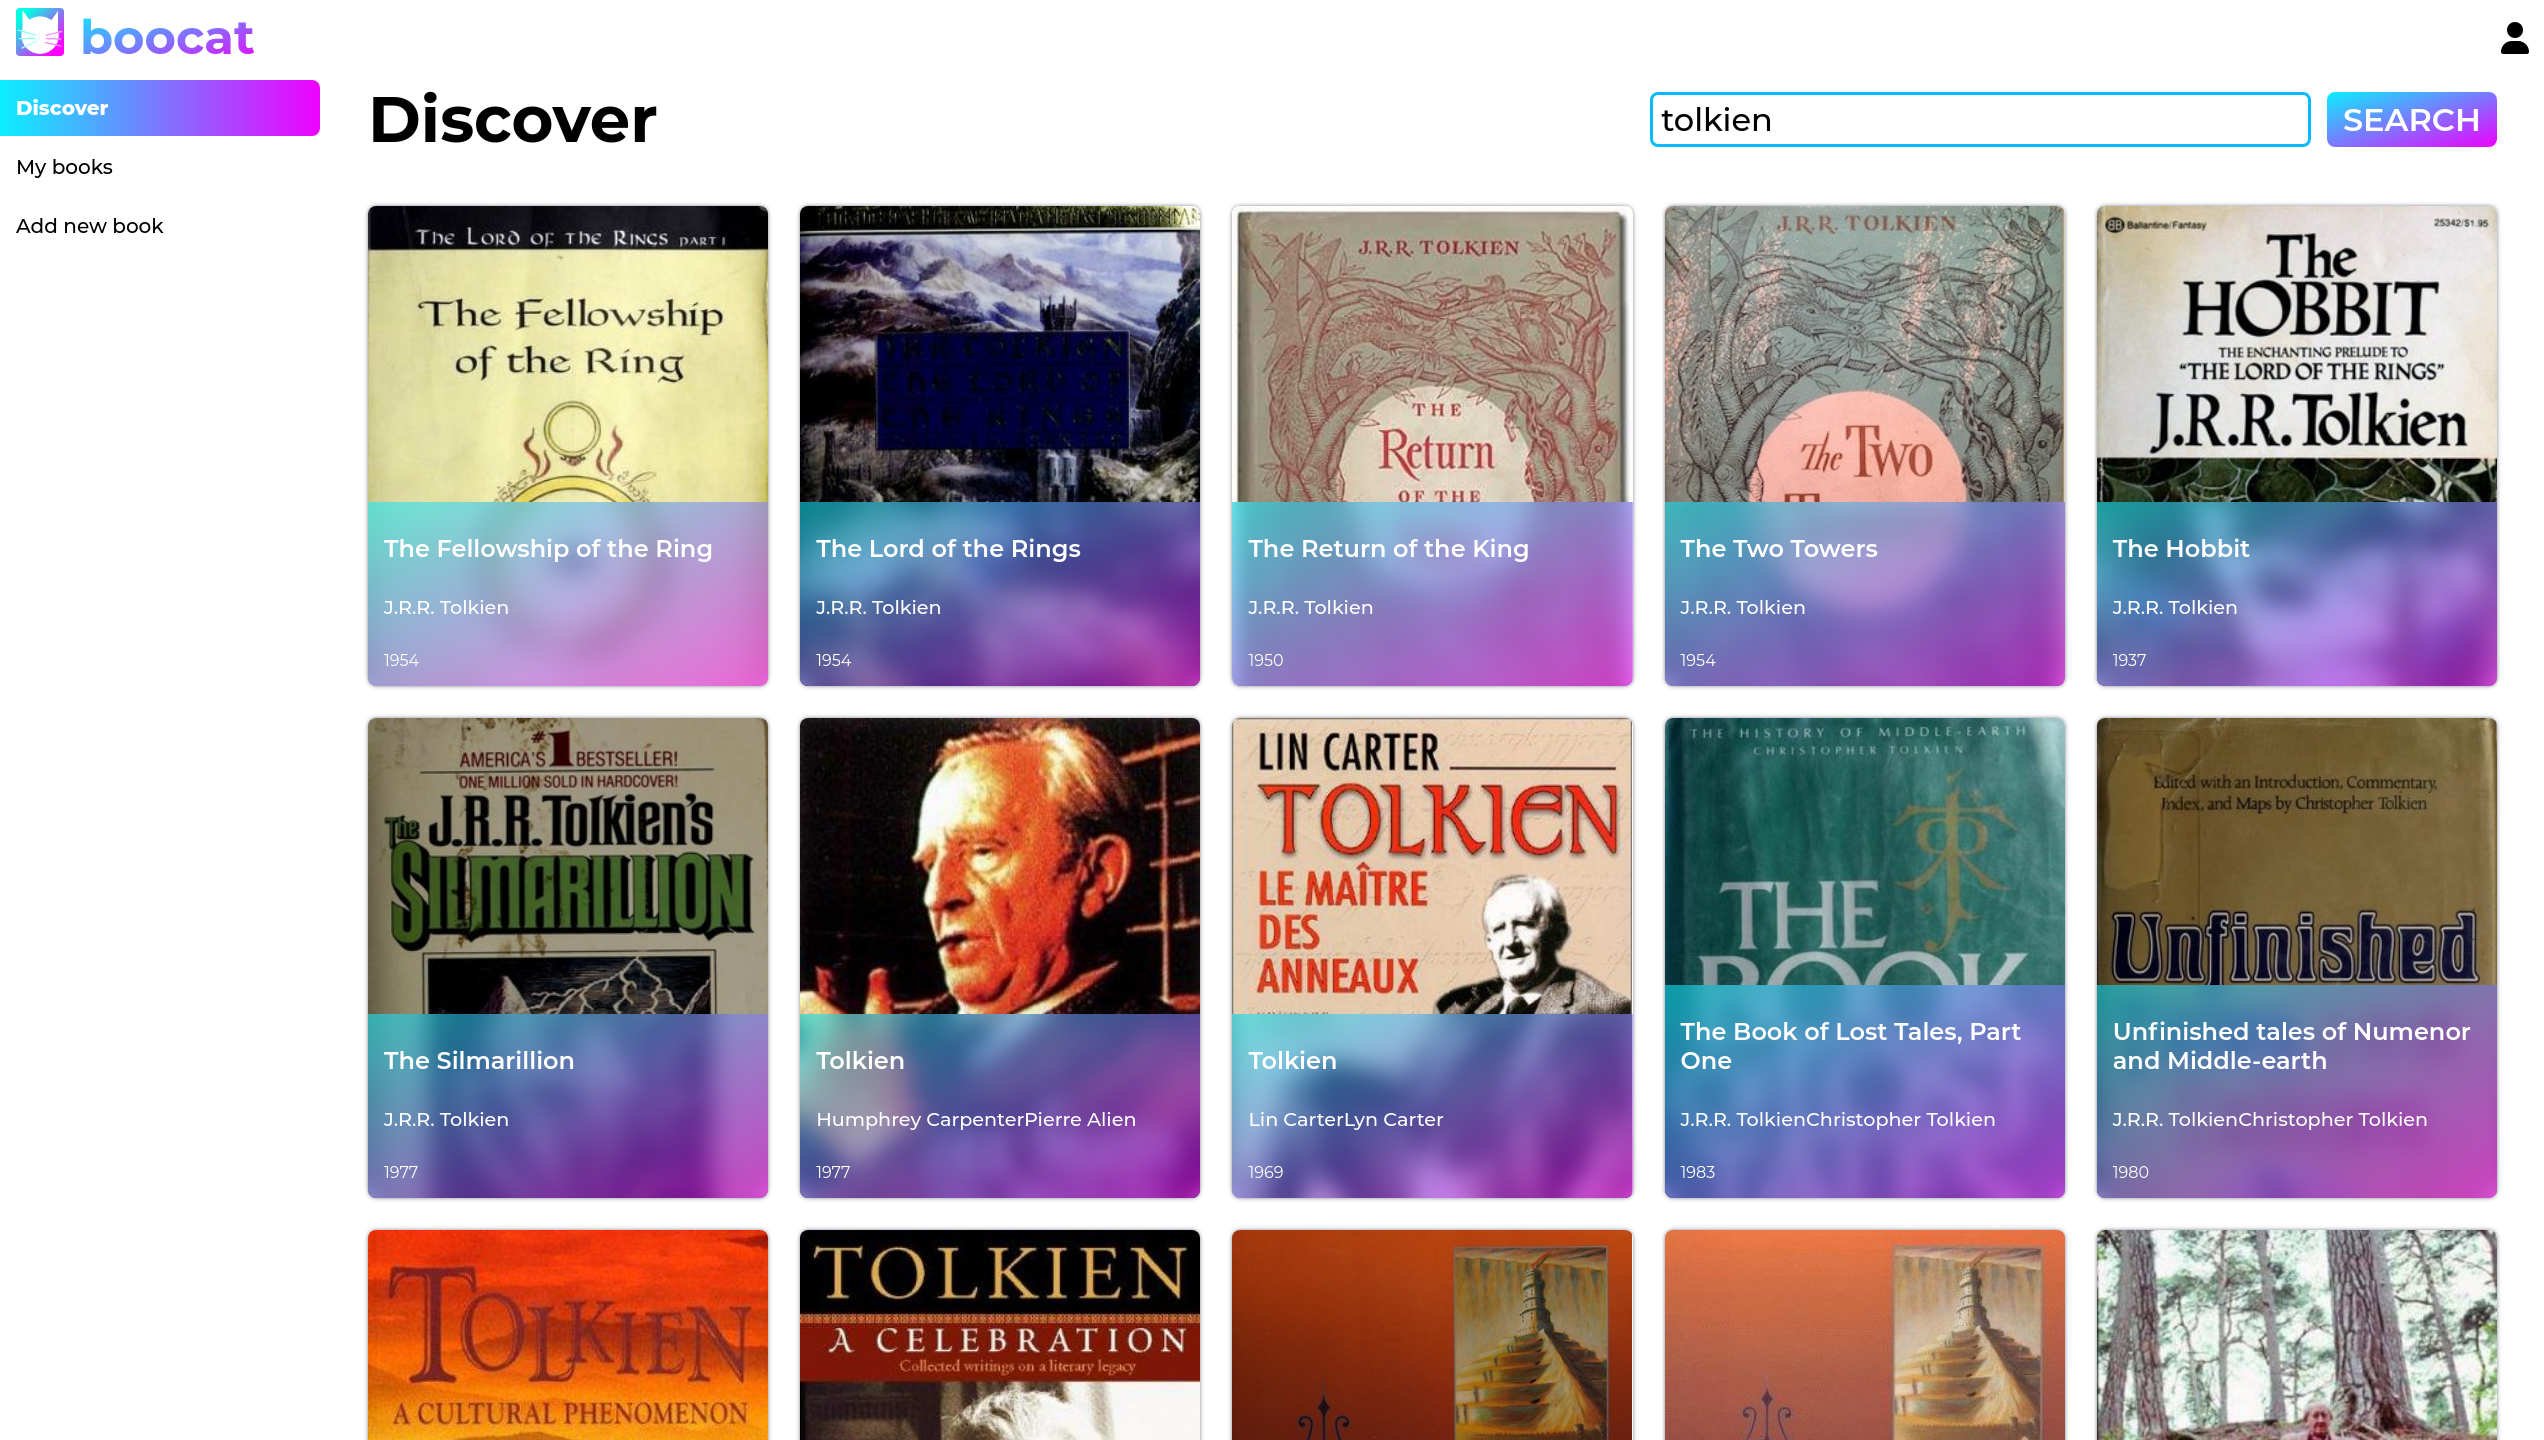
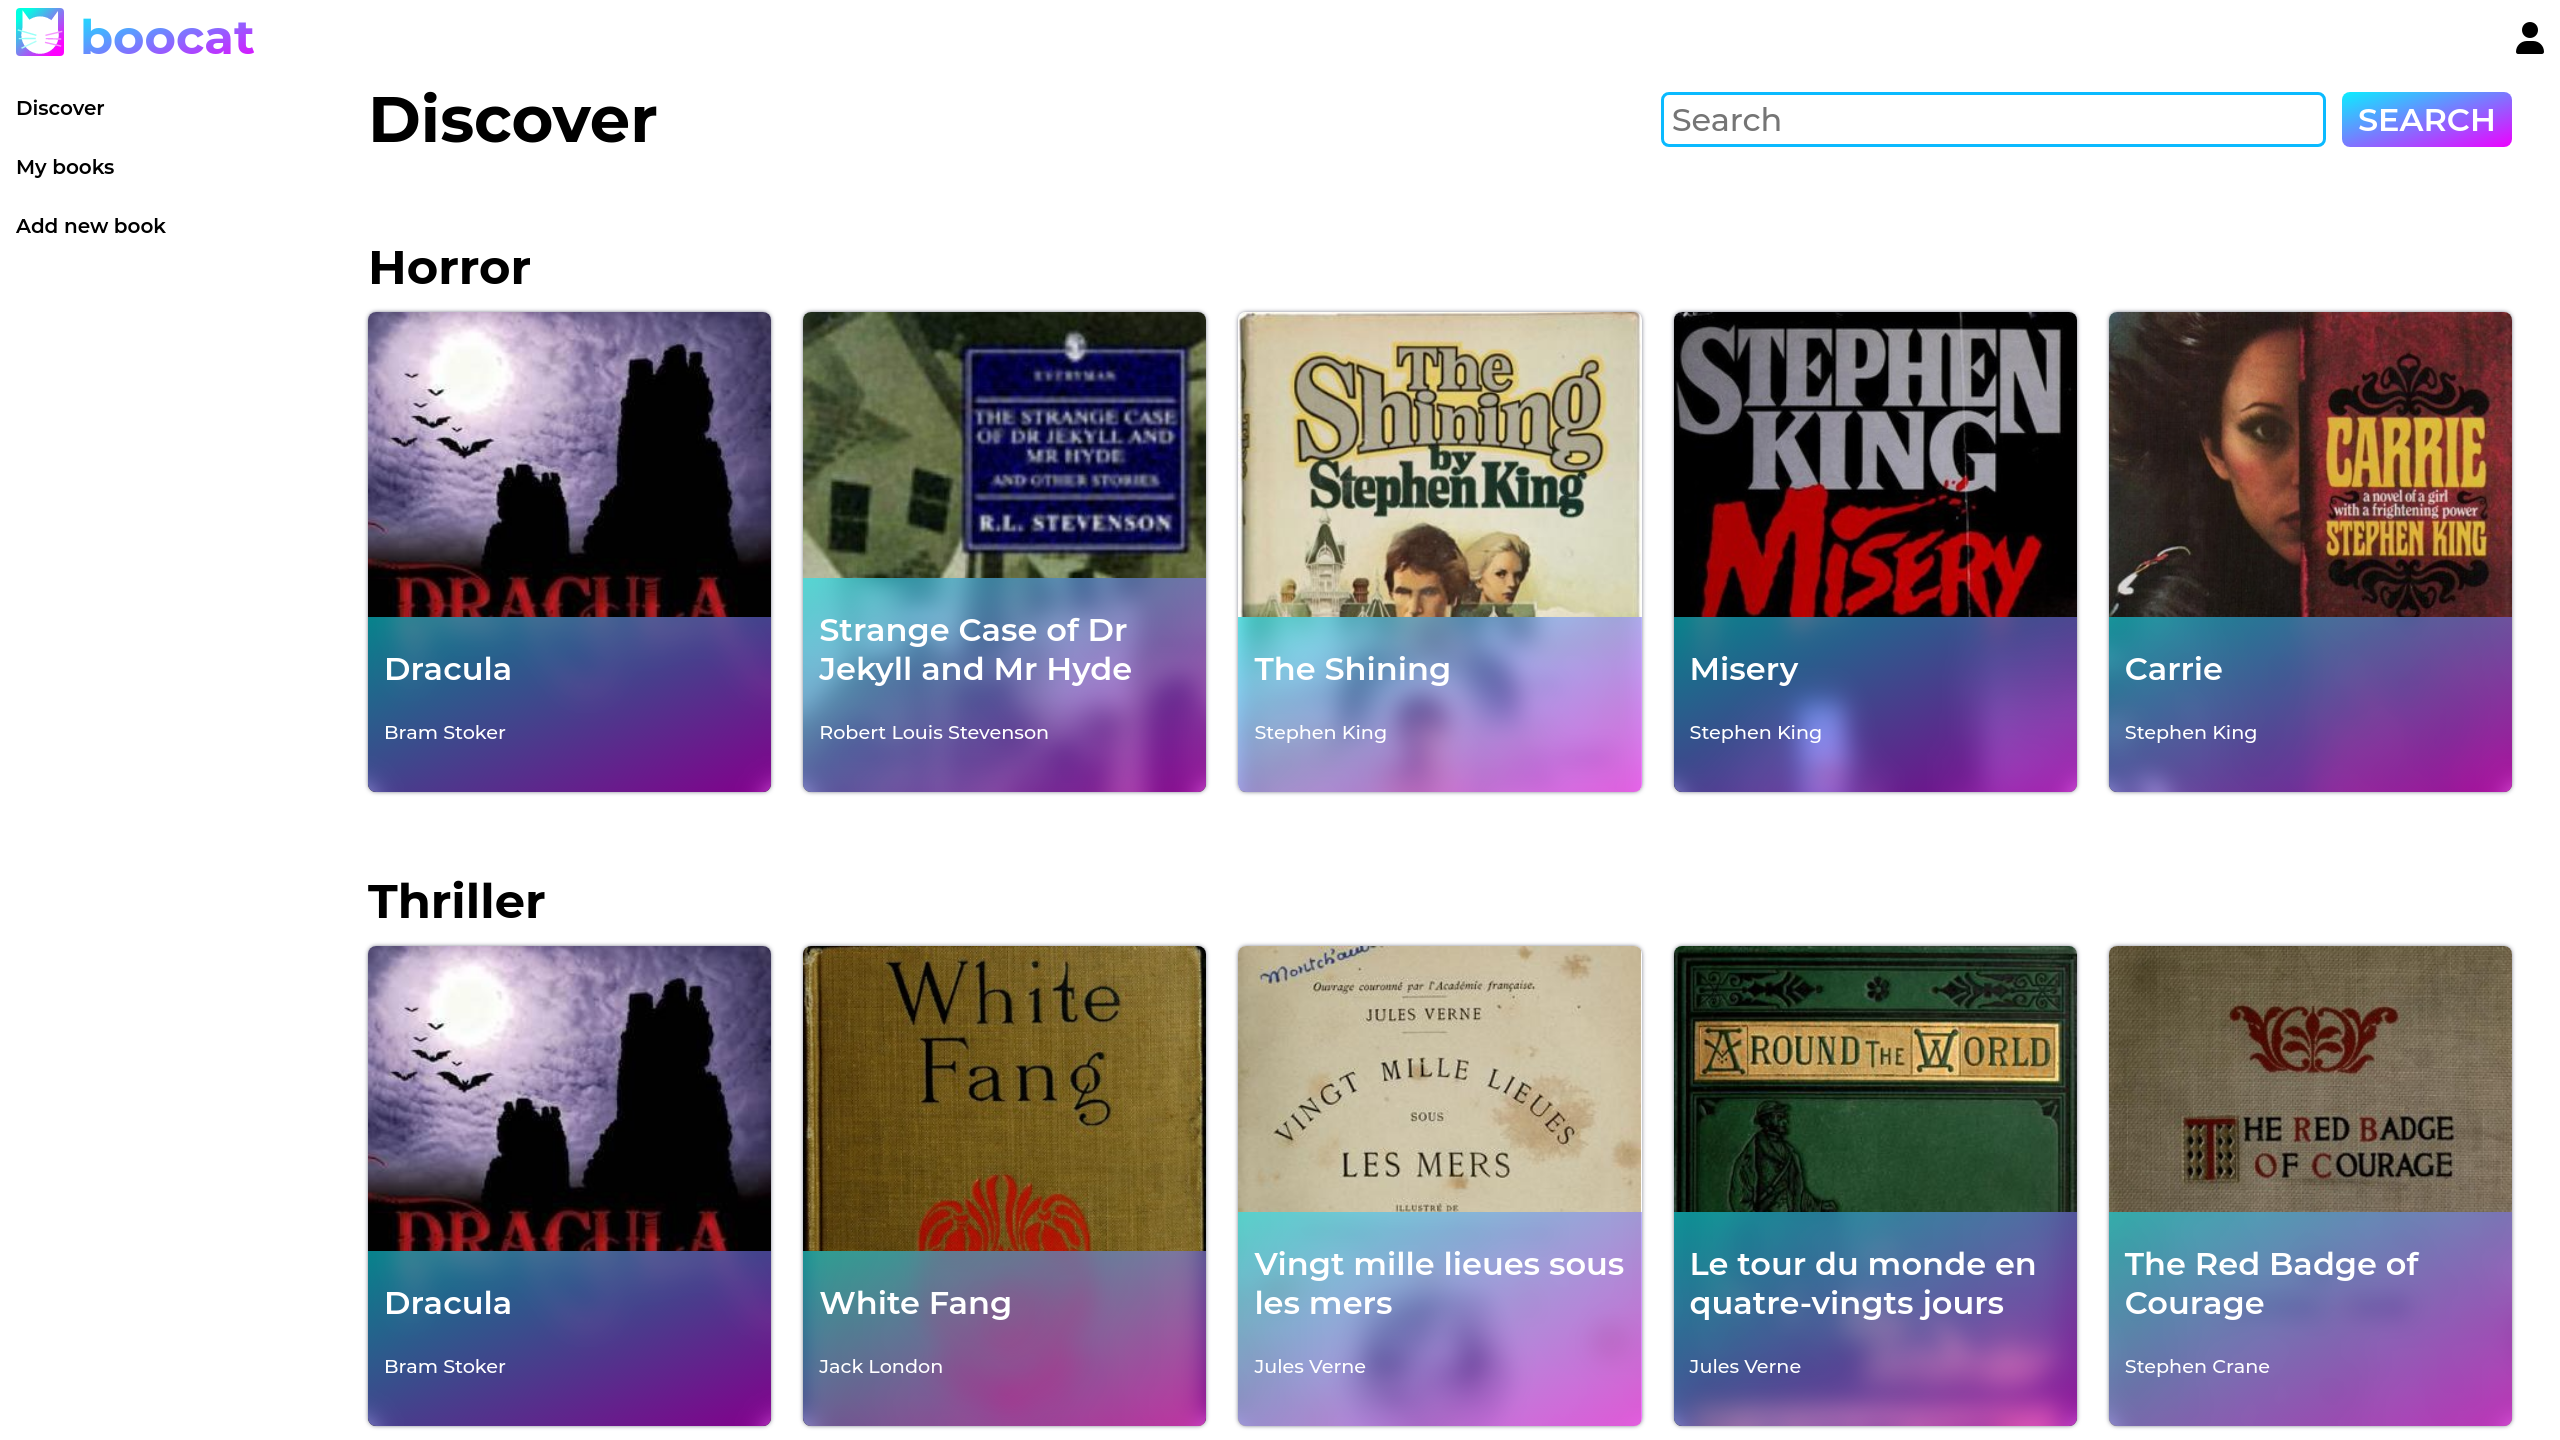
added default discover

diff --git a/src/components/DiscoverDefault.js b/src/components/DiscoverDefault.js
@@ -1,9 +1,63 @@
-// import { useEffect, useState } from 'react'
+import Book from './Book'
+import { useEffect, useState } from 'react'
 
 function DiscoverDefault() {
-	// const [data, setData] = useState('')
+	const [love, setLove] = useState('')
+	const [thriller, setThriller] = useState('')
 
-	return <div></div>
+	useEffect(() => {
+		getData()
+		getThriller()
+		// eslint-disable-next-line react-hooks/exhaustive-deps
+	}, [])
+
+	const getData = async () => {
+		const response = await fetch(
+			`http://openlibrary.org/subjects/horror.json?&limit=5`
+		)
+		const fetched = await response.json()
+		setLove(fetched.works)
+	}
+	console.log(love)
+
+	const getThriller = async () => {
+		const response = await fetch(
+			`http://openlibrary.org/subjects/thriller.json?&limit=5`
+		)
+		const fetched = await response.json()
+		setThriller(fetched.works)
+	}
+	console.log(thriller)
+
+	if (!love || !thriller) return <div></div>
+	return (
+		<>
+			<h2>Horror</h2>
+			<section className="discover-content">
+				{love.map((item, i) => (
+					<Book
+						key={i}
+						title={item.title}
+						author={item.authors[0].name}
+						year={item.first_publish_year}
+						cover={item.cover_edition_key}
+					/>
+				))}
+			</section>
+			<h2>Thriller</h2>
+			<section className="discover-content">
+				{thriller.map((item, i) => (
+					<Book
+						key={i}
+						title={item.title}
+						author={item.authors[0].name}
+						year={item.first_publish_year}
+						cover={item.cover_edition_key}
+					/>
+				))}
+			</section>
+		</>
+	)
 }
 
 export default DiscoverDefault

diff --git a/src/css/Discover.css b/src/css/Discover.css
@@ -37,10 +37,21 @@
 /* --------------------------- CONTENT --------------------------- */
 
 .discover-content {
-	padding-top: 3rem;
 	display: grid;
 	grid-template-columns: repeat(5, 1fr);
 	gap: 2rem;
+}
+
+@media (max-width: 120rem) {
+	.discover-content {
+		grid-template-columns: repeat(4, 1fr);
+	}
+}
+
+h2 {
+	margin: 5rem 0 1rem 0;
+	font-size: 3rem;
+	width: 100%;
 }
 
 .book-card {
@@ -84,7 +95,7 @@
 }
 
 .book-info div:first-child {
-	font-size: 1.5rem;
+	font-size: clamp(1.5rem, 1rem + 1vw, 2rem);
 	font-weight: 600;
 	margin: 2rem 0 1rem 0;
 }

diff --git a/src/pages/Discover.js b/src/pages/Discover.js
@@ -1,6 +1,6 @@
 import { useState } from 'react'
 import '../css/Discover.css'
-// import DiscoverDefault from '../components/DiscoverDefault'
+import DiscoverDefault from '../components/DiscoverDefault'
 import DiscoverSearch from '../components/DiscoverSearch'
 
 function Discover() {
@@ -32,7 +32,7 @@ function Discover() {
 					SEARCH
 				</button>
 			</div>
-			{/* <DiscoverDefault /> */}
+			<DiscoverDefault />
 			<DiscoverSearch search={search} />
 		</div>
 	)
